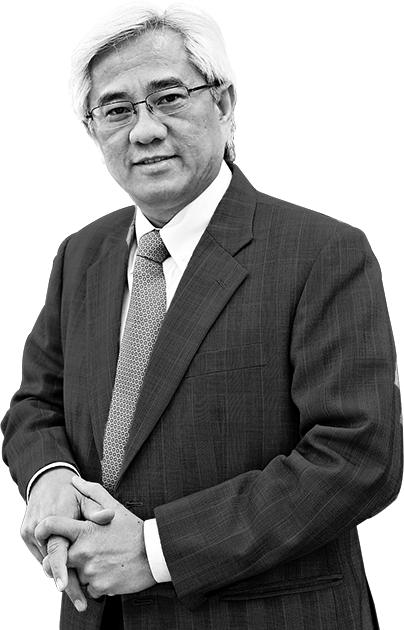
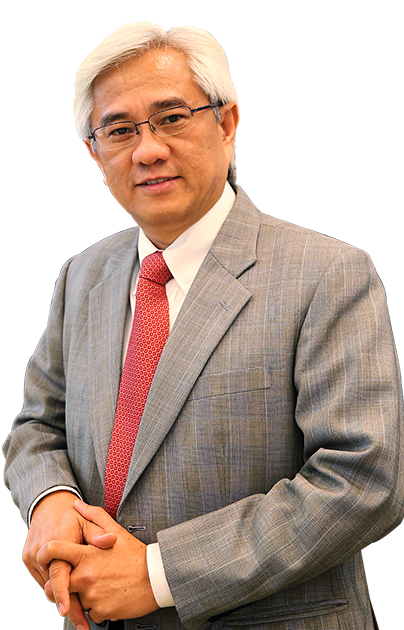
chapter1_6 changed ceo image, fix the height

diff --git a/ar/assets/css/fonts2.css b/ar/assets/css/fonts2.css
@@ -21,3 +21,7 @@ a:hover {
 .grey8Color {
   color: #8a8c8f;
 }
+
+.grey4Color {
+  color: #4d4d4f;
+}

diff --git a/ar/chapter1/chapter1_6.php b/ar/chapter1/chapter1_6.php
@@ -31,7 +31,7 @@
 	        <div class="title" style="font-size:21px; color:#787f84; margin-top:0px;">
 	        	Dear Shareholders,
 	        </div>
-	        <div style="margin-top:10px;">
+	        <div class="grey4Color" style="margin-top:10px;">
 	        	In 2014, we continued to reshape the Group to realise our 2015 vision of becoming a regional champion and a leader, to meet our long-term financial and non-financial objectives. To that effect, we have worked hard on the financial results for 2014 whilst also developing new long-term opportunities and initiatives.<br />
 	        	<br />
 	        	<br />
@@ -46,7 +46,7 @@
 	        <div class="title" style="font-size:90px; color:#bcbec0; margin-top:0px;">
 	        	31.5%
 	        </div>
-	        <div style="margin-top:30px;">
+	        <div class="grey4Color" style="margin-top:30px;">
 	        	<span class="title maroonColor">Transforming Our Core Business</span><br />
 	        	<br />
 						The Group saw a mixed year with stellar results from most OpCos, especially Dialog, Robi and Smart, but Celcom’s previous exemplary track record was marred by its 2014 performance. Our affiliate, Idea, also performed extremely well. <br />
@@ -74,8 +74,8 @@
       </div>
     </section>
 
-    <section id="ceo2Section" style="width:960px; margin:0 auto; margin-top:0px; height:3000px; overflow:hidden;">
-    	<div style="position:relative; z-index:10; padding:55px;">
+    <section id="ceo2Section" style="width:960px; margin:0 auto; margin-top:0px; height:3420px; overflow:hidden;">
+    	<div class="grey4Color" style="position:relative; z-index:10; padding:55px;">
     		<div style="width:545px;">
 	    		Following suit, our regional affiliates also saw a good 2014. Idea reported all round strong performance for the 9 months FY14 with revenue increasing by 19% and M1 full year FY2014 at 7%. PAT for Idea and M1 was up by 63% and 10% respectively.<br />
 	    		<br />

diff --git a/ar/chapter1/chapter1_5.php b/ar/chapter1/chapter1_5.php
@@ -20,7 +20,7 @@
           </div>
           <div style="position:relative;">
             <div style="position:relative; color:#787f84; font-size:22px; margin-top:10px;" class="title">Dear Shareholders,</div>
-            <div style="position:relative; margin-top:10px;">
+            <div class="grey4Color" style="position:relative; margin-top:10px;">
               Our journey towards realising our ambition to be a regional champion by 2015 is fast approaching its mark. I am pleased to report that Axiata has upheld its promise - raising the performance bar whilst remaining committed to its transformation into a new generation telecommunications company by 2020.<br />
               <br />
               <br />
